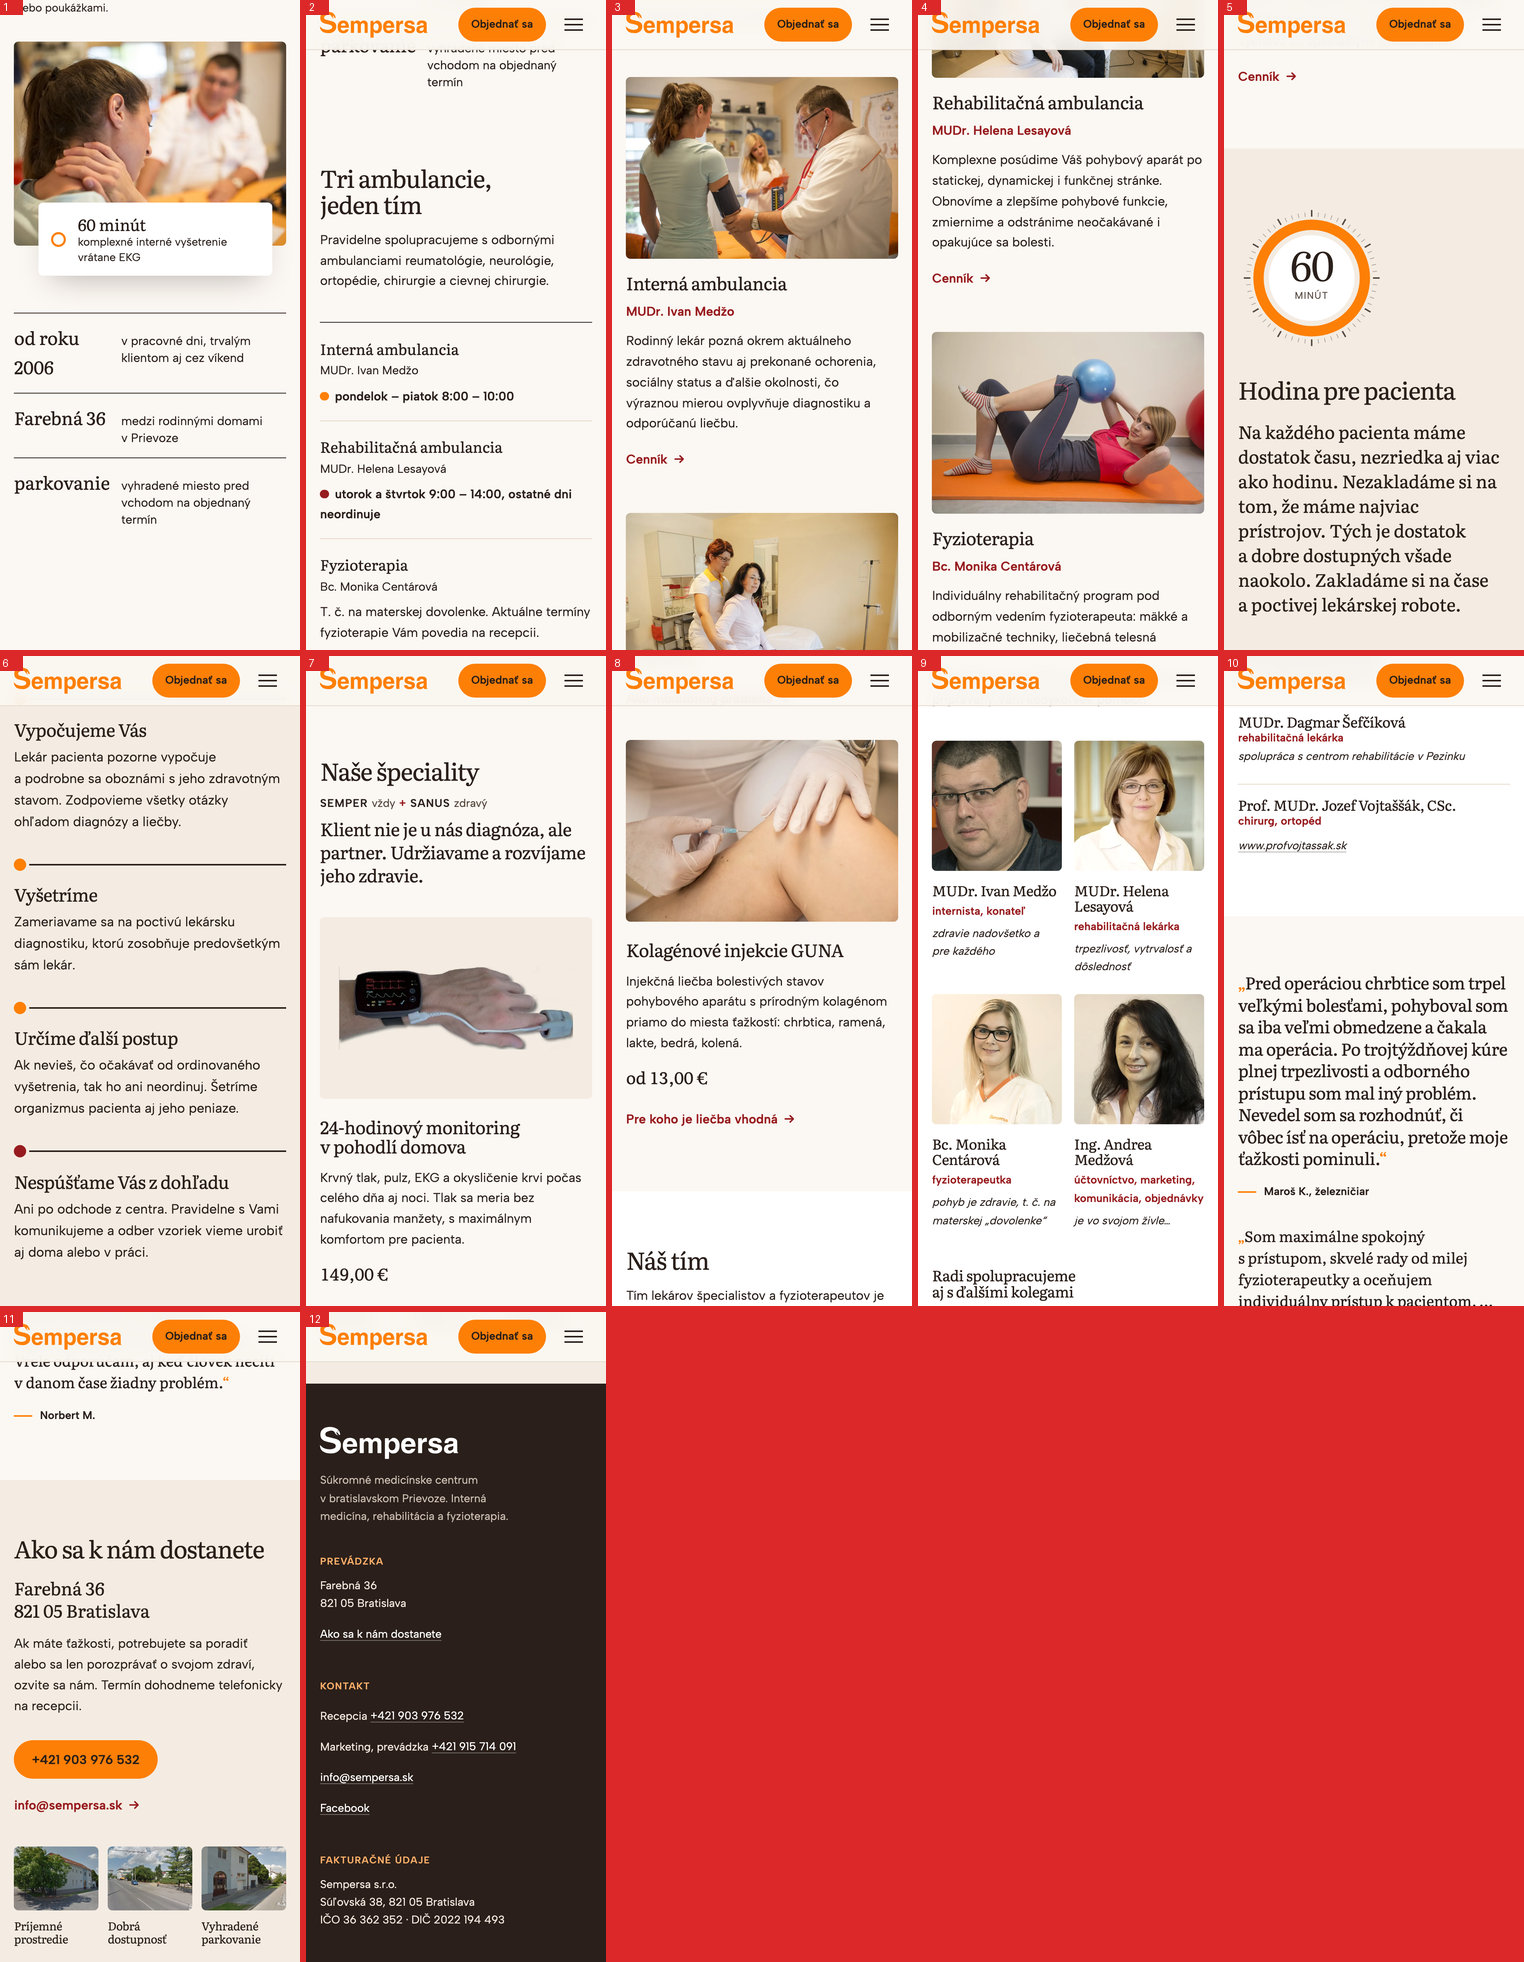
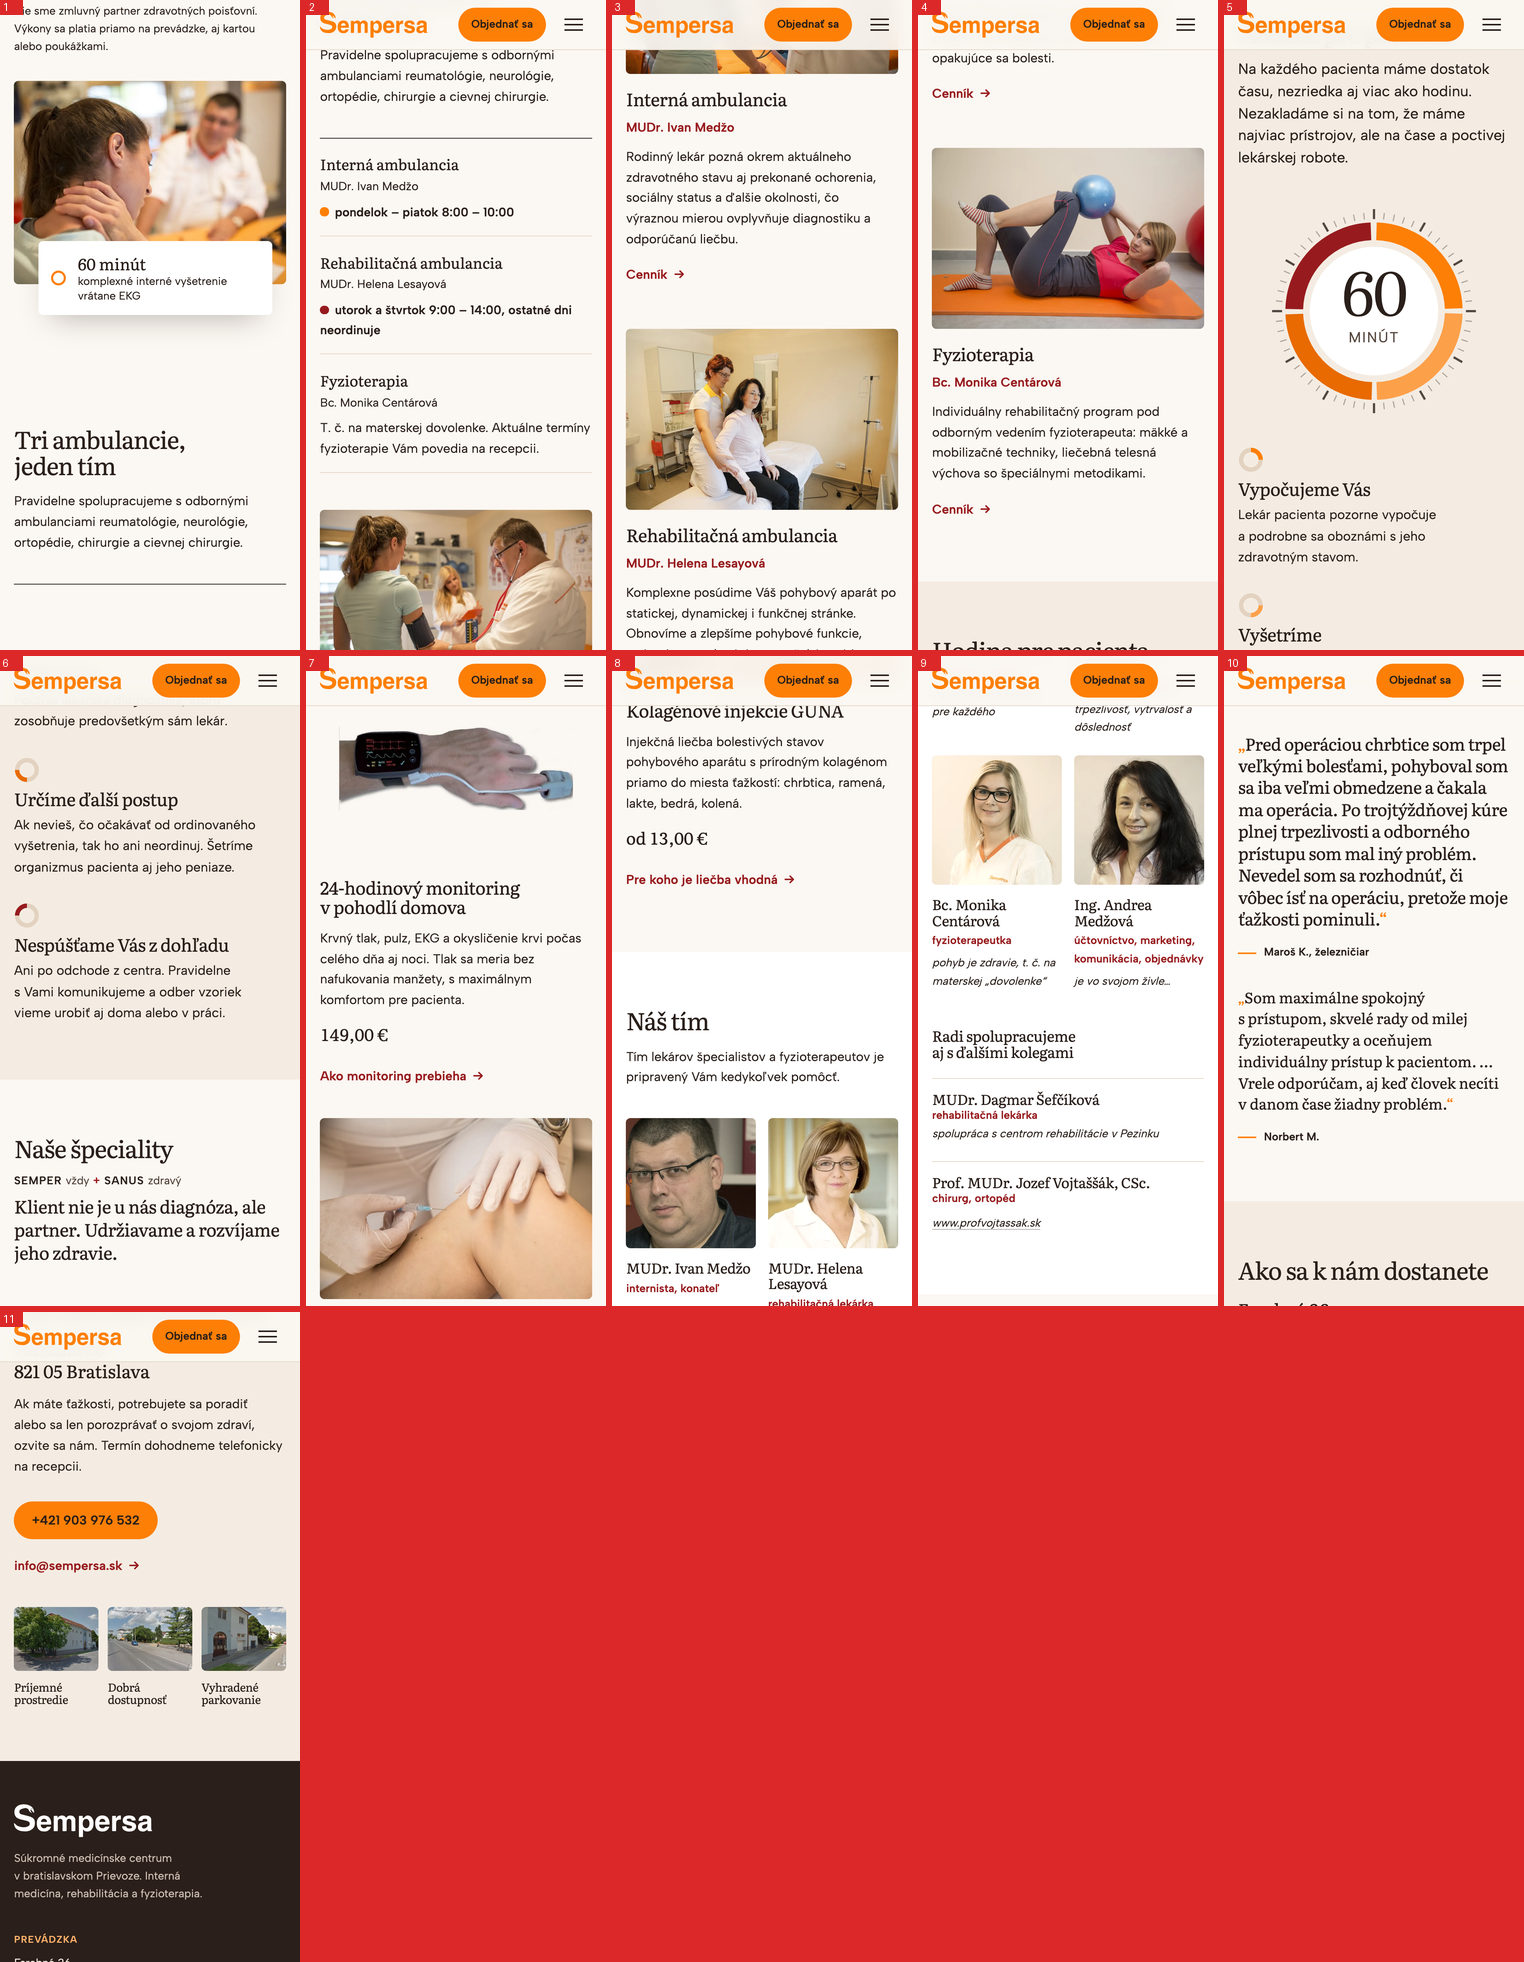
Aktualizace webu 2026-10-12 17:22

diff --git a/dist/index.html b/dist/index.html
@@ -177,7 +177,7 @@
         <div class="spec-foto"><img src="/sk-sempersa/img/injekcia-1920.webp" srcset="/sk-sempersa/img/injekcia-640.webp 640w, /sk-sempersa/img/injekcia-1280.webp 1280w, /sk-sempersa/img/injekcia-1920.webp 1920w" sizes="(min-width: 64rem) 34rem, 100vw" width="1920" height="1280" alt="Lekár aplikuje injekciu do kolena" loading="lazy" decoding="async"></div>
         <h3>Kolagénové injekcie GUNA</h3>
         <p>Injekčná liečba bolestivých stavov pohybového aparátu s&nbsp;prírodným kolagénom priamo do miesta ťažkostí: chrbtica, ramená, lakte, bedrá, kolená.</p>
-        <p class="spec-cena">od 13,00 €</p>
+        <p class="spec-cena">13,00 €</p>
         <a class="odkaz-sipka" href="/sk-sempersa/specialita/#guna">Pre koho je liečba vhodná</a>
       </article>
     </div>

diff --git a/src/index.html b/src/index.html
@@ -116,7 +116,7 @@
         <div class="spec-foto">{{ img('injekcia.jpg', 'Lekár aplikuje injekciu do kolena', sizes='(min-width: 64rem) 34rem, 100vw') }}</div>
         <h3>Kolagénové injekcie GUNA</h3>
         <p>Injekčná liečba bolestivých stavov pohybového aparátu s&nbsp;prírodným kolagénom priamo do miesta ťažkostí: chrbtica, ramená, lakte, bedrá, kolená.</p>
-        <p class="spec-cena">od 13,00 €</p>
+        <p class="spec-cena">13,00 €</p>
         <a class="odkaz-sipka" href="{{ url('specialita') }}#guna">Pre koho je liečba vhodná</a>
       </article>
     </div>
